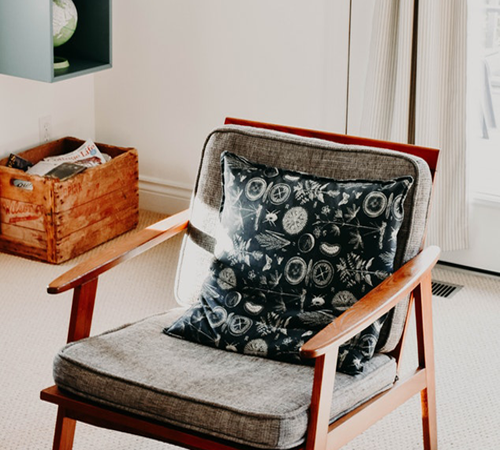
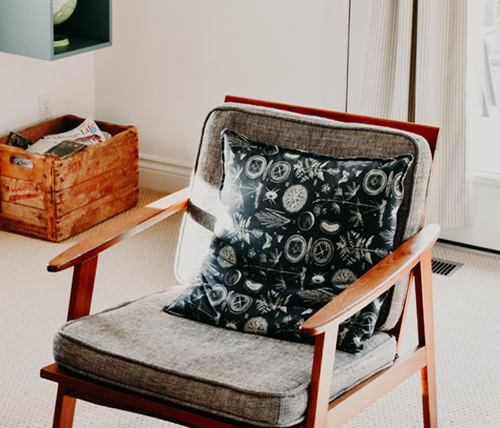
WDP181002-20 - Add RWD carousel to blog section, crop blog_01.png

diff --git a/src/sass/components/_post-box.scss b/src/sass/components/_post-box.scss
@@ -1,85 +1,104 @@
-.post-box {
-  margin-bottom: 2rem;
-  
-  > a {
-    text-decoration: none;
-  }
+.post-box-space {
+  padding: 15px;
 
-  .cover {
-    position: relative;
-    padding: 70% 25px 0 25px;
-    background: {
-      color: #f4f5f7;
-      size: cover;
-      position: center;
-    }
-    overflow: hidden;
-    align-items: flex-end;
+  .post-box {
+    margin-bottom: 2rem;
 
-    img {
-      position: absolute;
-      top: 0;
-      left: 0;
-      max-width: 100%;
-      height: auto;
-      object-fit: fill;
+    >a {
+      text-decoration: none;
     }
 
-    .details {
+    .cover {
       position: relative;
-      padding: 15px 20px;
-      display: flex;
-      color: $text-color;
-      background-color: $post-box-background;
-      font-size: 14px;
+      padding: 70% 25px 0 25px;
 
-      & > * {
-        flex: 1 1 auto;
+      background: {
+        color: #f4f5f7;
+        size: cover;
+        position: center;
       }
 
-      .date {
-        text-align: left;
+      overflow: hidden;
+      align-items: flex-end;
+
+      img {
+        position: absolute;
+        top: 0;
+        left: 0;
+        max-width: 100%;
+        height: auto;
+        object-fit: fill;
       }
 
-      .comments {
-        text-align: right;
-      }
-    }
-  }
+      .details {
+        position: relative;
+        padding: 15px 20px;
+        display: flex;
+        color: $text-color;
+        background-color: $post-box-background;
+        font-size: 14px;
 
-  .post-info {
-    padding: 25px;
+        &>* {
+          flex: 1 1 auto;
+        }
 
-    h5 {
-      color: $post-info-text;
-      font-size: 16px;
-      line-height: 24px;
-      letter-spacing: 1px;
-    }
+        .date {
+          text-align: left;
+        }
 
-    p {
-      font-size: 14px;
-      line-height: 24px;
-      color: $post-info-text;
-      text-align: justify;
-    }
-
-    .more {
-      text-align: center;
-      padding-top: 30px;
-    }
-  }
-
-  &:hover {
-    .post-info {
-      h5 {
-        color: $primary;
-      }
-      .more {
-        .btn-main {
-          background-color: $primary;
+        .comments {
+          text-align: right;
         }
       }
     }
+
+    .post-info {
+      padding: 25px;
+
+      h5 {
+        color: $post-info-text;
+        font-size: 16px;
+        line-height: 24px;
+        letter-spacing: 1px;
+      }
+
+      p {
+        font-size: 14px;
+        line-height: 24px;
+        color: $post-info-text;
+        text-align: justify;
+      }
+
+      .more {
+        text-align: center;
+        padding-top: 30px;
+      }
+    }
+
+    &:hover {
+      .post-info {
+        h5 {
+          color: $primary;
+        }
+
+        .more {
+          .btn-main {
+            background-color: $primary;
+          }
+        }
+      }
+    }
+  }
+}
+
+@media screen and (max-width: $breakpoint-lg) {
+  .post-box-space {
+    padding: 10px;
+  }
+}
+
+@media screen and (max-width: $breakpoint-md) {
+  .post-box-space {
+    padding: 5px;
   }
 }

diff --git a/src/index.html b/src/index.html
@@ -257,7 +257,7 @@
             </ul>
           </div>
           <div class="col-auto dots">
-            <ul id="dots">
+            <ul id="furniture-dots">
               <li><a></a></li>
               <li><a></a></li>
               <li><a></a></li>
@@ -535,7 +535,6 @@
           </div>
         </div>
       </div>
-
     </div>
     <div class="section--blog-posts">
       <div class="container">
@@ -546,16 +545,26 @@
             </div>
             <div class="col"></div>
             <div class="col-auto dots">
-              <ul>
-                <li><a href="#" class="active"></a></li>
-                <li><a href="#"></a></li>
-                <li><a href="#"></a></li>
+              <ul id="blog-dots">
+                <li><a></a></li>
+                <li><a></a></li>
+                <li><a></a></li>
+                <li><a></a></li>
+                <li><a></a></li>
+                <li><a></a></li>
+                <li><a></a></li>
+                <li><a></a></li>
+                <li><a></a></li>
+                <li><a></a></li>
               </ul>
             </div>
           </div>
         </div>
-        <div class="row">
-          <div class="col-12 col-sm-6 col-md-4">
+
+
+
+        <div class="blog-slider" id="blog-slider">
+          <div class="post-box-space">
             <div class="post-box">
               <a href="#">
                 <div class="cover">
@@ -580,7 +589,7 @@
               </a>
             </div>
           </div>
-          <div class="col-12 col-sm-6 col-md-4">
+          <div class="post-box-space">
             <div class="post-box">
               <a href="#">
                 <div class="cover">
@@ -605,7 +614,7 @@
               </a>
             </div>
           </div>
-          <div class="col-12 col-sm-6 col-md-4">
+          <div class="post-box-space">
             <div class="post-box">
               <a href="#">
                 <div class="cover">

diff --git a/src/scripts/app.js b/src/scripts/app.js
@@ -1,29 +1,54 @@
-const furnitureSlider = document.getElementById("furniture-slider");
-const furnitureSliderDots = document.getElementById("dots");
+const DOM = {};
 
+DOM.furnitureSlider = document.getElementById("furniture-slider");
+DOM.furnitureSliderDots = document.getElementById("furniture-dots");
 
-const slider = tns({
-    container: furnitureSlider,
-    items: 1,
+DOM.blogSlider = document.getElementById("blog-slider");
+DOM.blogSliderDots = document.getElementById("blog-dots");
+
+const furnitureSectionSlider = tns({
+	container: DOM.furnitureSlider,
+	items: 1,
 	slideBy: 'page',
 	controls: false,
 	autoplay: true,
 	autoplayButtonOutput: false,
-	navContainer: furnitureSliderDots,
+	navContainer: DOM.furnitureSliderDots,
 	mouseDrag: true,
 	responsive: {
 		576: {
-		  items: 2
+			items: 2
 		},
 		992: {
-		  items: 3
+			items: 3
 		},
 		1200: {
-		  items: 4
+			items: 4
 		}
 	}
-	
-  });
+
+});
 
 
-tns();
+const blogSectionSlider = tns({
+	container: DOM.blogSlider,
+	items: 1,
+	slideBy: 'page',
+	controls: false,
+	autoplay: true,
+	autoplayButtonOutput: false,
+	navContainer: DOM.blogSliderDots,
+	mouseDrag: true,
+	responsive: {
+		576: {
+			items: 2
+		},
+		992: {
+			items: 3
+		}
+	}
+
+});
+
+furnitureSectionSlider();
+blogSectionSlider();
